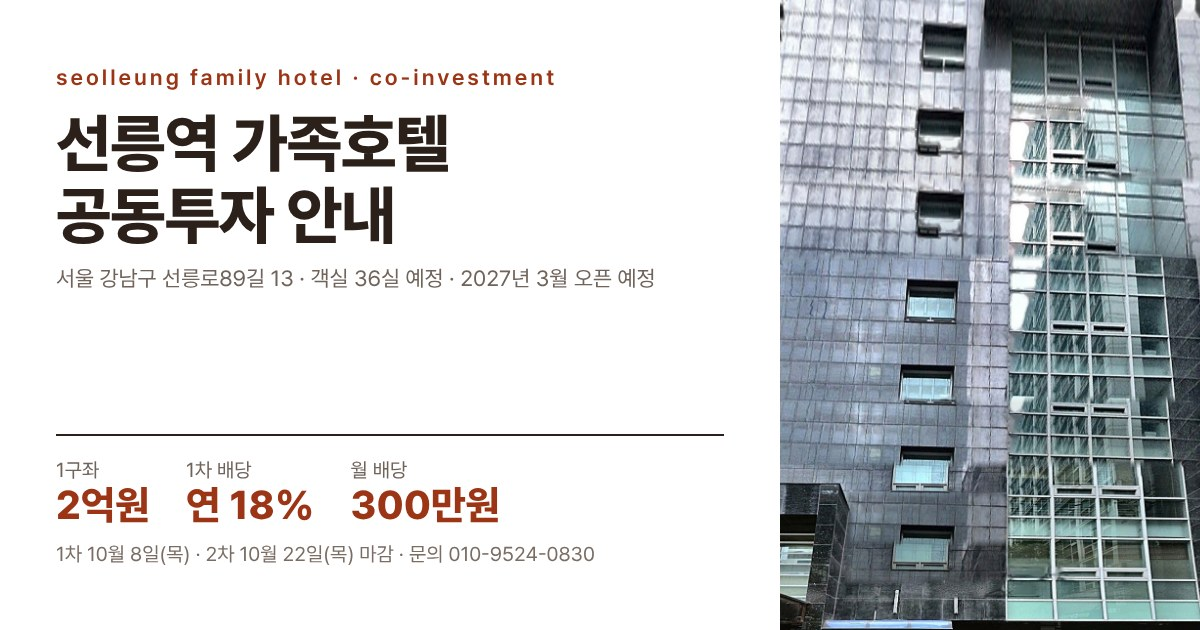
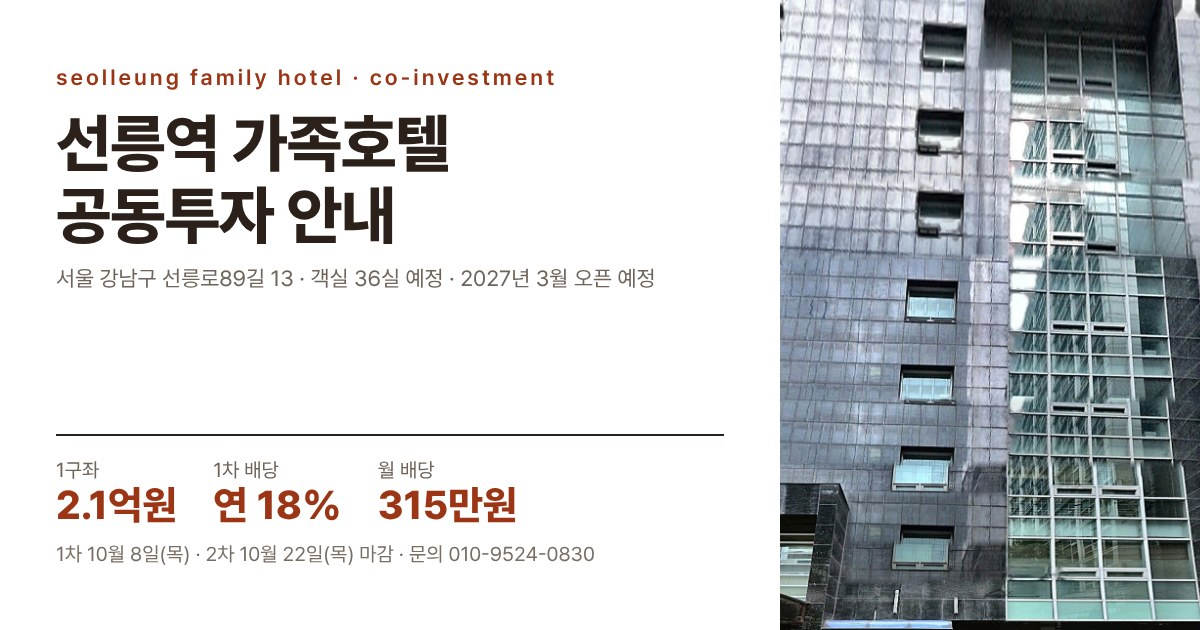
Add files via upload

Changed region(s): [[0.0617, 0.7238, 0.4317, 0.8444]]

diff --git a/index.html b/index.html
@@ -5,10 +5,10 @@
 <meta name="viewport" content="width=device-width,initial-scale=1,viewport-fit=cover">
 <meta name="robots" content="noindex, nofollow">
 <title>선릉역 가족호텔 공동투자</title>
-<meta name="description" content="서울 강남구 선릉역 가족호텔(역삼동 708-22) 공동투자 안내 — 1구좌 2억원 · 1차 연 18% 고정 배당 · 상담 신청">
+<meta name="description" content="서울 강남구 선릉역 가족호텔(역삼동 708-22) 공동투자 안내 — 1구좌 2.1억원 · 1차 연 18% 고정 배당 · 상담 신청">
 <meta property="og:type" content="website">
 <meta property="og:title" content="선릉역 가족호텔 공동투자 안내">
-<meta property="og:description" content="1구좌 2억원 · 1차 연 18% 고정 배당(월 300만원) · 1차 10월 8일, 2차 10월 22일 마감">
+<meta property="og:description" content="1구좌 2.1억원 · 1차 연 18% 고정 배당(월 315만원) · 1차 10월 8일, 2차 10월 22일 마감">
 <meta property="og:url" content="https://kimdoosoo.github.io/seolleung-hotel/">
 <meta property="og:image" content="https://kimdoosoo.github.io/seolleung-hotel/img/og.jpg">
 <meta property="og:image:width" content="1200">
@@ -326,12 +326,12 @@ footer p + p { margin-top: 6px; }
     <p class="addr">서울 강남구 선릉로89길 13 · 지상 2~8층 · 객실 36실 예정 · 2027년 3월 오픈 예정</p>
     <div class="deadlines"><p class="deadline">1차 모집 마감 <b>2026년 10월 8일(목)</b><span id="dday"></span></p><p class="deadline second">2차 모집 <b>10월 9일(금) ~ 10월 22일(목)</b></p></div>
     <div class="stats">
-      <div class="stat"><p class="k">1구좌</p><p class="v">2억원</p></div>
+      <div class="stat"><p class="k">1구좌</p><p class="v">2.1억원</p></div>
       <div class="stat"><p class="k">모집</p><p class="v">10구좌</p></div>
       <div class="stat"><p class="k">1차 배당</p><p class="v">연 18% 고정</p></div>
-      <div class="stat"><p class="k">1차 1구좌 월 배당</p><p class="v">300만원</p></div>
+      <div class="stat"><p class="k">1차 1구좌 월 배당</p><p class="v">315만원</p></div>
     </div>
-    <p class="subtle" style="margin-top:14px">2차 모집은 10월 22일(목) 마감 · 연 16% 고정(1구좌 월 약 267만원)</p>
+    <p class="subtle" style="margin-top:14px">2차 모집은 10월 22일(목) 마감 · 연 16% 고정(1구좌 월 280만원)</p>
     <div class="cta">
       <a class="btn" href="#apply">상담 신청하기</a>
       <a class="btn ghost" href="#first">1차와 2차 차이</a>
@@ -342,12 +342,12 @@ footer p + p { margin-top: 6px; }
     <div class="wrap">
       <div class="head"><p class="eyebrow">1차 모집 · 10월 8일(목) 마감</p><hr><h2>10월 8일이 지나면 고정 배당이 연 18%에서 16%로 내려갑니다</h2></div>
       <div class="duo">
-        <div class="card on"><p class="tag">1차 · 10월 8일(목) 마감</p><p class="rate">연 18%</p><p class="m">1구좌 매달 300만원</p>
-          <dl><dt>고정 배당 49개월</dt><dd>1억 4,700만원</dd><dt>1구좌 받는 돈 합계 (예상)</dt><dd>약 3억 9,700만원</dd></dl></div>
-        <div class="card"><p class="tag">2차 · 10월 22일(목) 마감</p><p class="rate">연 16%</p><p class="m">1구좌 매달 약 267만원</p>
-          <dl><dt>고정 배당 49개월</dt><dd>1억 3,067만원</dd><dt>1구좌 받는 돈 합계 (예상)</dt><dd>약 3억 8,070만원</dd></dl></div>
+        <div class="card on"><p class="tag">1차 · 10월 8일(목) 마감</p><p class="rate">연 18%</p><p class="m">1구좌 매달 315만원</p>
+          <dl><dt>고정 배당 49개월</dt><dd>1억 5,435만원</dd><dt>1구좌 받는 돈 합계 (예상)</dt><dd>약 4억 1,685만원</dd></dl></div>
+        <div class="card"><p class="tag">2차 · 10월 22일(목) 마감</p><p class="rate">연 16%</p><p class="m">1구좌 매달 280만원</p>
+          <dl><dt>고정 배당 49개월</dt><dd>1억 3,720만원</dd><dt>1구좌 받는 돈 합계 (예상)</dt><dd>약 3억 9,970만원</dd></dl></div>
       </div>
-      <p class="diff">같은 2억원, 1차가 1,633만원 더</p>
+      <p class="diff">같은 2.1억원, 1차가 1,715만원 더</p>
       <p class="subtle" style="margin-top:6px">10구좌 한정 · 1차에서 다 차면 2차 모집은 없습니다</p>
       <p class="note">배당 49개월 = 2027년 5월 ~ 2031년 5월 (예상 시나리오) · 합계 = 고정 배당 + 추가 배당(예상) + 엑시트 실수령 · 모든 수익은 예상치입니다</p>
     </div>
@@ -373,16 +373,16 @@ footer p + p { margin-top: 6px; }
 
   <section class="block" id="structure">
     <div class="wrap">
-      <div class="head"><p class="eyebrow">investment</p><hr><h2>총 20억원 — 1구좌 2억원 × 10구좌</h2></div>
+      <div class="head"><p class="eyebrow">investment</p><hr><h2>총 21억원 — 1구좌 2.1억원 × 10구좌</h2></div>
       <div class="sum">
         <div class="box"><p class="k">임차보증금</p><p class="v">3.5억원</p><p class="d">층당 5천만원 × 7개 층</p></div>
         <p class="op">+</p>
-        <div class="box"><p class="k">공사비</p><p class="v">16.5억원</p><p class="d">평당 약 440만원</p></div>
+        <div class="box"><p class="k">공사비</p><p class="v">17.5억원</p><p class="d">평당 약 470만원</p></div>
         <p class="op">=</p>
-        <div class="box total"><p class="k">총 사업비</p><p class="v">20억원</p><p class="d">2억원 × 10구좌</p></div>
+        <div class="box total"><p class="k">총 사업비</p><p class="v">21억원</p><p class="d">2.1억원 × 10구좌</p></div>
       </div>
       <dl class="kv">
-        <dt>배당</dt><dd>1차 연 18% (1구좌 월 300만원) · 2차 연 16% (월 약 267만원) — 매월 고정 지급</dd>
+        <dt>배당</dt><dd>1차 연 18% (1구좌 월 315만원) · 2차 연 16% (월 280만원) — 매월 고정 지급</dd>
         <dt>배당 시작</dt><dd>오픈 2개월차부터 (2027년 5월 예정)</dd>
         <dt>추가 배당</dt><dd>고정 배당을 넘는 전년도 수익, 매년 1분기 지급</dd>
         <dt>투자 방식</dt><dd>프로젝트 법인(SPC) 먼슬리브 역삼 호텔스테이 주주로 참여</dd>
@@ -457,7 +457,7 @@ footer p + p { margin-top: 6px; }
 
   <section class="block" id="track">
     <div class="wrap">
-      <div class="head"><p class="eyebrow">monthliv track record</p><hr><h2>4개 지점 실적으로 본 역삼동 예상 매출, 월 1.65억원</h2></div>
+      <div class="head"><p class="eyebrow">monthliv track record</p><hr><h2>4개 지점 실적으로 본 역삼동 예상 매출, 월 1.75억원</h2></div>
       <div class="tbl">
         <table>
           <tr><th>지점</th><th class="acc">80% 가동 시 매출</th><th>면적</th><th>10월 매출</th><th>객단가</th><th>객실당 매출</th><th>점유율</th></tr>
@@ -515,72 +515,72 @@ footer p + p { margin-top: 6px; }
     <div class="wrap">
       <div class="head"><p class="eyebrow">profit · 연간 예상</p><hr><h2>투자금 대비 연 30% — 18%는 매달, 나머지는 1분기에</h2></div>
       <h3>연 매출 19억 7,426만원은 이렇게 나뉩니다</h3>
-      <div class="split" role="img" aria-label="연 매출 배분: 운영 수수료 15% 2억 9,614만원, 운영비 5억 9,932만원, 임대료 4억 7,880만원, 고정 배당 3억 6,000만원, 추가 배당 2억 4,000만원">
-        <span style="flex:29614;background:var(--c2)"></span><span style="flex:59932;background:var(--c3)"></span><span style="flex:47880;background:var(--c4)"></span><span style="flex:36000;background:var(--accent)"></span><span style="flex:24000;background:var(--accent-2)"></span>
+      <div class="split" role="img" aria-label="연 매출 배분: 운영 수수료 15% 2억 9,614만원, 운영비 5억 6,932만원, 임대료 4억 7,880만원, 고정 배당 3억 7,800만원, 추가 배당 2억 5,200만원">
+        <span style="flex:29614;background:var(--c2)"></span><span style="flex:56932;background:var(--c3)"></span><span style="flex:47880;background:var(--c4)"></span><span style="flex:37800;background:var(--accent)"></span><span style="flex:25200;background:var(--accent-2)"></span>
       </div>
       <div class="legend five">
         <div><i style="background:var(--c2)"></i><p>운영 수수료 15%</p><b>2억 9,614만</b></div>
-        <div><i style="background:var(--c3)"></i><p>운영비</p><b>5억 9,932만</b></div>
+        <div><i style="background:var(--c3)"></i><p>운영비</p><b>5억 6,932만</b></div>
         <div><i style="background:var(--c4)"></i><p>임대료</p><b>4억 7,880만</b></div>
-        <div><i style="background:var(--accent)"></i><p class="acc">고정 배당</p><b class="acc">3억 6,000만</b></div>
-        <div><i style="background:var(--accent-2)"></i><p class="acc">추가 배당</p><b class="acc">2억 4,000만</b></div>
+        <div><i style="background:var(--accent)"></i><p class="acc">고정 배당</p><b class="acc">3억 7,800만</b></div>
+        <div><i style="background:var(--accent-2)"></i><p class="acc">추가 배당</p><b class="acc">2억 5,200만</b></div>
       </div>
       <div class="sum" style="margin-top:32px">
-        <div class="box"><p class="k">1구좌 고정 배당 (1차)</p><p class="v">연 3,600만원</p><p class="d">매달 300만원 · 18% (2차 16%)</p></div>
+        <div class="box"><p class="k">1구좌 고정 배당 (1차)</p><p class="v">연 3,780만원</p><p class="d">매달 315만원 · 18% (2차 16%)</p></div>
         <p class="op">+</p>
-        <div class="box"><p class="k">1구좌 추가 배당</p><p class="v">약 2,400만원</p><p class="d">다음 해 1분기</p></div>
+        <div class="box"><p class="k">1구좌 추가 배당</p><p class="v">약 2,520만원</p><p class="d">다음 해 1분기</p></div>
         <p class="op">=</p>
-        <div class="box total"><p class="k">1차 1구좌 연간 배당 (예상)</p><p class="v">약 6,000만원</p><p class="d">투자금 2억원 대비 30%</p></div>
+        <div class="box total"><p class="k">1차 1구좌 연간 배당 (예상)</p><p class="v">약 6,300만원</p><p class="d">투자금 2.1억원 대비 30%</p></div>
       </div>
-      <p class="note">매출: 4개 지점 평당 정산 매출(OTA 수수료 차감 후) · 가동률 연중 80% 가정(성수기 90%보다 낮춤) · 운영 수수료 15% · 임대료 관리비 포함 · 운영비(공과금 · 린넨/비품 렌탈 · 소모품 · 청소 용역) 월 약 5,000만원, 매출의 약 30% 가정 · 추가 배당은 전 구좌 1차 기준 · 법인세 반영 전 · 모든 수익은 예상치이며 추가 배당은 전년도 결산으로 확정</p>
+      <p class="note">매출: 4개 지점 평당 정산 매출(OTA 수수료 차감 후) · 가동률 연중 80% 가정(성수기 90%보다 낮춤) · 운영 수수료 15% · 임대료 관리비 포함 · 운영비(공과금 · 린넨/비품 렌탈 · 소모품 · 청소 용역) 월 약 4,740만원, 매출의 약 29% 가정 · 추가 배당은 전 구좌 1차 기준 · 법인세 반영 전 · 모든 수익은 예상치이며 추가 배당은 전년도 결산으로 확정</p>
     </div>
   </section>
 
   <section class="block" id="returns">
     <div class="wrap">
-      <div class="head"><p class="eyebrow">returns · 1구좌 2억원 기준 · 예상</p><hr><h2>언제, 얼마를 받나요 — 1차와 2차</h2></div>
+      <div class="head"><p class="eyebrow">returns · 1구좌 2.1억원 기준 · 예상</p><hr><h2>언제, 얼마를 받나요 — 1차와 2차</h2></div>
       <div class="tabs" role="tablist" aria-label="모집 차수">
         <button class="tab" type="button" role="tab" id="tab-r1" aria-selected="true" aria-controls="plan-r1">1차 · 10월 8일(목) 마감 · 연 18%</button>
         <button class="tab" type="button" role="tab" id="tab-r2" aria-selected="false" aria-controls="plan-r2">2차 · 10월 22일(목) 마감 · 연 16%</button>
       </div>
       <div class="plan" id="plan-r1" role="tabpanel" aria-labelledby="tab-r1">
-        <h3 class="plan-title">1차 — 매달 300만원, 1분기 추가 배당, 그리고 엑시트</h3>
+        <h3 class="plan-title">1차 — 매달 315만원, 1분기 추가 배당, 그리고 엑시트</h3>
         <div class="cal-scroll">
-          <div class="cal" role="img" aria-label="1차 배당 달력: 2027년 5월부터 2031년 5월까지 매달 300만원, 2029~2031년 1분기 추가 배당 약 2,400만원, 2031년 5월 엑시트(예상)">
+          <div class="cal" role="img" aria-label="1차 배당 달력: 2027년 5월부터 2031년 5월까지 매달 315만원, 2029~2031년 1분기 추가 배당 약 2,520만원, 2031년 5월 엑시트(예상)">
 <span class="yl h">연도</span><span class="m">1월</span><span class="m">2월</span><span class="m">3월</span><span class="m">4월</span><span class="m">5월</span><span class="m">6월</span><span class="m">7월</span><span class="m">8월</span><span class="m">9월</span><span class="m">10월</span><span class="m">11월</span><span class="m">12월</span><span class="m">1분기 추가</span><span class="tot h">연간</span>
-<span class="yl">2027</span><span class="c prep">오픈 준비</span><span class="c open" style="grid-column:span 2">3월 오픈</span><span class="c pay">300만</span><span class="c pay">300만</span><span class="c pay">300만</span><span class="c pay">300만</span><span class="c pay">300만</span><span class="c pay">300만</span><span class="c pay">300만</span><span class="c pay">300만</span><span class="ex none">—</span><span class="tot">2,400만원</span>
-<span class="yl">2028</span><span class="c pay">300만</span><span class="c pay">300만</span><span class="c pay">300만</span><span class="c pay">300만</span><span class="c pay">300만</span><span class="c pay">300만</span><span class="c pay">300만</span><span class="c pay">300만</span><span class="c pay">300만</span><span class="c pay">300만</span><span class="c pay">300만</span><span class="c pay">300만</span><span class="ex">+α</span><span class="tot">3,600만원 <em>+α</em></span>
-<span class="yl">2029</span><span class="c pay">300만</span><span class="c pay">300만</span><span class="c pay">300만</span><span class="c pay">300만</span><span class="c pay">300만</span><span class="c pay">300만</span><span class="c pay">300만</span><span class="c pay">300만</span><span class="c pay">300만</span><span class="c pay">300만</span><span class="c pay">300만</span><span class="c pay">300만</span><span class="ex">+2,400만</span><span class="tot">6,000만원</span>
-<span class="yl">2030</span><span class="c pay">300만</span><span class="c pay">300만</span><span class="c pay">300만</span><span class="c pay">300만</span><span class="c pay">300만</span><span class="c pay">300만</span><span class="c pay">300만</span><span class="c pay">300만</span><span class="c pay">300만</span><span class="c pay">300만</span><span class="c pay">300만</span><span class="c pay">300만</span><span class="ex">+2,400만</span><span class="tot">6,000만원</span>
-<span class="yl">2031</span><span class="c pay">300만</span><span class="c pay">300만</span><span class="c pay">300만</span><span class="c pay">300만</span><span class="c pay">300만</span><span class="c exit">5월 엑시트(예상) → 1구좌 2억원 · 세금 11% 빼고 1억 7,800만원</span><span class="ex">+2,400만</span><span class="tot">3,900만원</span>
+<span class="yl">2027</span><span class="c prep">오픈 준비</span><span class="c open" style="grid-column:span 2">3월 오픈</span><span class="c pay">315만</span><span class="c pay">315만</span><span class="c pay">315만</span><span class="c pay">315만</span><span class="c pay">315만</span><span class="c pay">315만</span><span class="c pay">315만</span><span class="c pay">315만</span><span class="ex none">—</span><span class="tot">2,520만원</span>
+<span class="yl">2028</span><span class="c pay">315만</span><span class="c pay">315만</span><span class="c pay">315만</span><span class="c pay">315만</span><span class="c pay">315만</span><span class="c pay">315만</span><span class="c pay">315만</span><span class="c pay">315만</span><span class="c pay">315만</span><span class="c pay">315만</span><span class="c pay">315만</span><span class="c pay">315만</span><span class="ex">+α</span><span class="tot">3,780만원 <em>+α</em></span>
+<span class="yl">2029</span><span class="c pay">315만</span><span class="c pay">315만</span><span class="c pay">315만</span><span class="c pay">315만</span><span class="c pay">315만</span><span class="c pay">315만</span><span class="c pay">315만</span><span class="c pay">315만</span><span class="c pay">315만</span><span class="c pay">315만</span><span class="c pay">315만</span><span class="c pay">315만</span><span class="ex">+2,520만</span><span class="tot">6,300만원</span>
+<span class="yl">2030</span><span class="c pay">315만</span><span class="c pay">315만</span><span class="c pay">315만</span><span class="c pay">315만</span><span class="c pay">315만</span><span class="c pay">315만</span><span class="c pay">315만</span><span class="c pay">315만</span><span class="c pay">315만</span><span class="c pay">315만</span><span class="c pay">315만</span><span class="c pay">315만</span><span class="ex">+2,520만</span><span class="tot">6,300만원</span>
+<span class="yl">2031</span><span class="c pay">315만</span><span class="c pay">315만</span><span class="c pay">315만</span><span class="c pay">315만</span><span class="c pay">315만</span><span class="c exit">5월 엑시트(예상) → 1구좌 2.1억원 · 세금 11% 빼고 1억 8,690만원</span><span class="ex">+2,520만</span><span class="tot">4,095만원</span>
           </div>
         </div>
         <p class="hint">달력은 옆으로 밀어 볼 수 있습니다</p>
         <div class="trio quad">
-        <div><p class="k">고정 배당</p><p class="big">1억 4,700만원</p><p class="d">49개월 × 300만원 · 세금 0원</p></div>
-        <div><p class="k">추가 배당 (예상)</p><p class="big">약 7,200만원</p><p class="d">2029~2031년 1분기 · 세금 0원</p></div>
-        <div><p class="k">엑시트 실수령</p><p class="big">1억 7,800만원</p><p class="d">2031년 5월(예상) · 2억에서 11% 차감</p></div>
-        <div><p class="k acc">1구좌 합계 (예상)</p><p class="big">약 3억 9,700만원</p><p class="d">원금 2억원의 약 2배</p></div>
+        <div><p class="k">고정 배당</p><p class="big">1억 5,435만원</p><p class="d">49개월 × 315만원 · 세금 0원</p></div>
+        <div><p class="k">추가 배당 (예상)</p><p class="big">약 7,560만원</p><p class="d">2029~2031년 1분기 · 세금 0원</p></div>
+        <div><p class="k">엑시트 실수령</p><p class="big">1억 8,690만원</p><p class="d">2031년 5월(예상) · 2.1억에서 11% 차감</p></div>
+        <div><p class="k acc">1구좌 합계 (예상)</p><p class="big">약 4억 1,685만원</p><p class="d">원금 2.1억원의 약 2배</p></div>
       </div>
       </div>
       <div class="plan" id="plan-r2" role="tabpanel" aria-labelledby="tab-r2">
-        <h3 class="plan-title">2차 — 매달 약 267만원, 1분기 추가 배당, 그리고 엑시트</h3>
+        <h3 class="plan-title">2차 — 매달 280만원, 1분기 추가 배당, 그리고 엑시트</h3>
         <div class="cal-scroll">
-          <div class="cal" role="img" aria-label="2차 배당 달력: 2027년 5월부터 2031년 5월까지 매달 약 267만원, 2029~2031년 1분기 추가 배당 약 2,400만원, 2031년 5월 엑시트(예상)">
+          <div class="cal" role="img" aria-label="2차 배당 달력: 2027년 5월부터 2031년 5월까지 매달 280만원, 2029~2031년 1분기 추가 배당 약 2,520만원, 2031년 5월 엑시트(예상)">
 <span class="yl h">연도</span><span class="m">1월</span><span class="m">2월</span><span class="m">3월</span><span class="m">4월</span><span class="m">5월</span><span class="m">6월</span><span class="m">7월</span><span class="m">8월</span><span class="m">9월</span><span class="m">10월</span><span class="m">11월</span><span class="m">12월</span><span class="m">1분기 추가</span><span class="tot h">연간</span>
-<span class="yl">2027</span><span class="c prep">오픈 준비</span><span class="c open" style="grid-column:span 2">3월 오픈</span><span class="c pay">267만</span><span class="c pay">267만</span><span class="c pay">267만</span><span class="c pay">267만</span><span class="c pay">267만</span><span class="c pay">267만</span><span class="c pay">267만</span><span class="c pay">267만</span><span class="ex none">—</span><span class="tot">2,133만원</span>
-<span class="yl">2028</span><span class="c pay">267만</span><span class="c pay">267만</span><span class="c pay">267만</span><span class="c pay">267만</span><span class="c pay">267만</span><span class="c pay">267만</span><span class="c pay">267만</span><span class="c pay">267만</span><span class="c pay">267만</span><span class="c pay">267만</span><span class="c pay">267만</span><span class="c pay">267만</span><span class="ex">+α</span><span class="tot">3,200만원 <em>+α</em></span>
-<span class="yl">2029</span><span class="c pay">267만</span><span class="c pay">267만</span><span class="c pay">267만</span><span class="c pay">267만</span><span class="c pay">267만</span><span class="c pay">267만</span><span class="c pay">267만</span><span class="c pay">267만</span><span class="c pay">267만</span><span class="c pay">267만</span><span class="c pay">267만</span><span class="c pay">267만</span><span class="ex">+2,400만</span><span class="tot">5,600만원</span>
-<span class="yl">2030</span><span class="c pay">267만</span><span class="c pay">267만</span><span class="c pay">267만</span><span class="c pay">267만</span><span class="c pay">267만</span><span class="c pay">267만</span><span class="c pay">267만</span><span class="c pay">267만</span><span class="c pay">267만</span><span class="c pay">267만</span><span class="c pay">267만</span><span class="c pay">267만</span><span class="ex">+2,400만</span><span class="tot">5,600만원</span>
-<span class="yl">2031</span><span class="c pay">267만</span><span class="c pay">267만</span><span class="c pay">267만</span><span class="c pay">267만</span><span class="c pay">267만</span><span class="c exit">5월 엑시트(예상) → 1구좌 2억원 · 세금 11% 빼고 1억 7,800만원</span><span class="ex">+2,400만</span><span class="tot">3,733만원</span>
+<span class="yl">2027</span><span class="c prep">오픈 준비</span><span class="c open" style="grid-column:span 2">3월 오픈</span><span class="c pay">280만</span><span class="c pay">280만</span><span class="c pay">280만</span><span class="c pay">280만</span><span class="c pay">280만</span><span class="c pay">280만</span><span class="c pay">280만</span><span class="c pay">280만</span><span class="ex none">—</span><span class="tot">2,240만원</span>
+<span class="yl">2028</span><span class="c pay">280만</span><span class="c pay">280만</span><span class="c pay">280만</span><span class="c pay">280만</span><span class="c pay">280만</span><span class="c pay">280만</span><span class="c pay">280만</span><span class="c pay">280만</span><span class="c pay">280만</span><span class="c pay">280만</span><span class="c pay">280만</span><span class="c pay">280만</span><span class="ex">+α</span><span class="tot">3,360만원 <em>+α</em></span>
+<span class="yl">2029</span><span class="c pay">280만</span><span class="c pay">280만</span><span class="c pay">280만</span><span class="c pay">280만</span><span class="c pay">280만</span><span class="c pay">280만</span><span class="c pay">280만</span><span class="c pay">280만</span><span class="c pay">280만</span><span class="c pay">280만</span><span class="c pay">280만</span><span class="c pay">280만</span><span class="ex">+2,520만</span><span class="tot">5,880만원</span>
+<span class="yl">2030</span><span class="c pay">280만</span><span class="c pay">280만</span><span class="c pay">280만</span><span class="c pay">280만</span><span class="c pay">280만</span><span class="c pay">280만</span><span class="c pay">280만</span><span class="c pay">280만</span><span class="c pay">280만</span><span class="c pay">280만</span><span class="c pay">280만</span><span class="c pay">280만</span><span class="ex">+2,520만</span><span class="tot">5,880만원</span>
+<span class="yl">2031</span><span class="c pay">280만</span><span class="c pay">280만</span><span class="c pay">280만</span><span class="c pay">280만</span><span class="c pay">280만</span><span class="c exit">5월 엑시트(예상) → 1구좌 2.1억원 · 세금 11% 빼고 1억 8,690만원</span><span class="ex">+2,520만</span><span class="tot">3,920만원</span>
           </div>
         </div>
         <p class="hint">달력은 옆으로 밀어 볼 수 있습니다</p>
         <div class="trio quad">
-        <div><p class="k">고정 배당</p><p class="big">1억 3,067만원</p><p class="d">49개월 × 266만 6,667원 · 세금 0원</p></div>
-        <div><p class="k">추가 배당 (예상)</p><p class="big">약 7,200만원</p><p class="d">2029~2031년 1분기 · 세금 0원</p></div>
-        <div><p class="k">엑시트 실수령</p><p class="big">1억 7,800만원</p><p class="d">2031년 5월(예상) · 2억에서 11% 차감</p></div>
-        <div><p class="k acc">1구좌 합계 (예상)</p><p class="big">약 3억 8,070만원</p><p class="d">원금 2억원의 약 1.9배</p></div>
+        <div><p class="k">고정 배당</p><p class="big">1억 3,720만원</p><p class="d">49개월 × 280만원 · 세금 0원</p></div>
+        <div><p class="k">추가 배당 (예상)</p><p class="big">약 7,560만원</p><p class="d">2029~2031년 1분기 · 세금 0원</p></div>
+        <div><p class="k">엑시트 실수령</p><p class="big">1억 8,690만원</p><p class="d">2031년 5월(예상) · 2.1억에서 11% 차감</p></div>
+        <div><p class="k acc">1구좌 합계 (예상)</p><p class="big">약 3억 9,970만원</p><p class="d">원금 2.1억원의 약 1.9배</p></div>
       </div>
       </div>
     </div>
@@ -588,43 +588,43 @@ footer p + p { margin-top: 6px; }
 
   <section class="block" id="exit">
     <div class="wrap">
-      <div class="head"><p class="eyebrow">exit · 2031년 5월 예상 시나리오 · 1구좌 2억원 기준</p><hr><h2>엑시트 20억원 — 1구좌 실수령 1억 7,800만원</h2></div>
+      <div class="head"><p class="eyebrow">exit · 2031년 5월 예상 시나리오 · 1구좌 2.1억원 기준</p><hr><h2>엑시트 21억원 — 1구좌 실수령 1억 8,690만원</h2></div>
       <div class="flow">
-        <div class="box"><p class="k">엑시트 금액</p><p class="v">20억원</p><p class="d">보증금 3.5억 + 권리금 16.5억</p></div>
+        <div class="box"><p class="k">엑시트 금액</p><p class="v">21억원</p><p class="d">보증금 3.5억 + 권리금 17.5억</p></div>
         <p class="op">÷10</p>
-        <div class="box"><p class="k">1구좌 몫</p><p class="v">2억원</p><p class="d">0.35억 + 1.65억</p></div>
+        <div class="box"><p class="k">1구좌 몫</p><p class="v">2.1억원</p><p class="d">0.35억 + 1.75억</p></div>
         <p class="op">−</p>
-        <div class="box"><p class="k">양도세 11%</p><p class="v">2,200만원</p><p class="d">2억원 × 11% (보수적 계산)</p></div>
+        <div class="box"><p class="k">양도세 11%</p><p class="v">2,310만원</p><p class="d">2.1억원 × 11% (보수적 계산)</p></div>
         <p class="op">=</p>
-        <div class="box total"><p class="k">실수령</p><p class="v">1억 7,800만원</p><p class="d">2031년 5월</p></div>
+        <div class="box total"><p class="k">실수령</p><p class="v">1억 8,690만원</p><p class="d">2031년 5월</p></div>
       </div>
-      <p class="subtle" style="margin-top:16px">소액주주는 감액배당에 세금이 없어 배당은 원금을 넘어도 비과세입니다. 엑시트 양도세는 차익의 11%로, 여기서는 2억 전체에 적용해 보수적으로 계산했습니다.</p>
+      <p class="subtle" style="margin-top:16px">소액주주는 감액배당에 세금이 없어 배당은 원금을 넘어도 비과세입니다. 엑시트 양도세는 차익의 11%로, 여기서는 2.1억 전체에 적용해 보수적으로 계산했습니다.</p>
       <h3 style="margin-top:40px">1차 1구좌로 받는 돈 합계 (예상)</h3>
       <div class="total-row">
-        <div class="stack" role="img" aria-label="1구좌 합계 약 3억 9,700만원: 고정 배당 1억 4,700만원, 추가 배당 약 7,200만원, 엑시트 실수령 1억 7,800만원. 원금 2억원은 배당만으로 넘습니다.">
-          <span style="flex:14700;background:var(--accent)"></span><span style="flex:7200;background:var(--accent-2)"></span><span style="flex:17800;background:var(--ink)"></span>
+        <div class="stack" role="img" aria-label="1구좌 합계 약 4억 1,685만원: 고정 배당 1억 5,435만원, 추가 배당 약 7,560만원, 엑시트 실수령 1억 8,690만원. 원금 2.1억원은 배당만으로 넘습니다.">
+          <span style="flex:15435;background:var(--accent)"></span><span style="flex:7560;background:var(--accent-2)"></span><span style="flex:18690;background:var(--ink)"></span>
           <em class="line" style="left:50.38%"></em>
         </div>
-        <div class="tot-label"><p class="big">약 3억 9,700만원</p><p class="subtle">원금 2억원의 약 2배</p></div>
+        <div class="tot-label"><p class="big">약 4억 1,685만원</p><p class="subtle">원금 2.1억원의 약 2배</p></div>
       </div>
       <div class="legend three">
-        <div><i style="background:var(--accent)"></i><p>고정 배당</p><b>1억 4,700만</b></div>
-        <div><i style="background:var(--accent-2)"></i><p>추가 배당 (예상)</p><b>약 7,200만</b></div>
-        <div><i style="background:var(--ink)"></i><p>엑시트 실수령</p><b>1억 7,800만</b></div>
+        <div><i style="background:var(--accent)"></i><p>고정 배당</p><b>1억 5,435만</b></div>
+        <div><i style="background:var(--accent-2)"></i><p>추가 배당 (예상)</p><b>약 7,560만</b></div>
+        <div><i style="background:var(--ink)"></i><p>엑시트 실수령</p><b>1억 8,690만</b></div>
       </div>
-      <p class="small-note" style="margin-top:10px">흰 점선 = 원금 2억원 · 배당만으로 원금을 넘습니다</p>
-      <p class="note">추가 배당: 2028~2030년분 예상치(1구좌 연 약 2,400만원) 3회 · 2027년분 +α 별도 · 엑시트는 예상 시나리오, 시설권리금은 시장 상황에 따라 달라질 수 있습니다 · 감액배당: 2026년 개정 세법에서도 중소 · 중견기업 비상장 소액주주는 비과세 · 11%: 중소기업 소액주주 양도소득세 10% + 지방소득세 1%</p>
+      <p class="small-note" style="margin-top:10px">흰 점선 = 원금 2.1억원 · 배당만으로 원금을 넘습니다</p>
+      <p class="note">추가 배당: 2028~2030년분 예상치(1구좌 연 약 2,520만원) 3회 · 2027년분 +α 별도 · 엑시트는 예상 시나리오, 시설권리금은 시장 상황에 따라 달라질 수 있습니다 · 감액배당: 2026년 개정 세법에서도 중소 · 중견기업 비상장 소액주주는 비과세 · 11%: 중소기업 소액주주 양도소득세 10% + 지방소득세 1%</p>
     </div>
   </section>
 
   <section class="block" id="tax">
     <div class="wrap">
       <div class="head"><p class="eyebrow">tax · 배당과 엑시트</p><hr><h2>배당은 세금 0원 — 엑시트 때만 11%</h2></div>
-      <h3>1차 1구좌 배당 2억 1,900만원(고정 + 추가, 예상)에 붙는 세금</h3>
+      <h3>1차 1구좌 배당 2억 2,995만원(고정 + 추가, 예상)에 붙는 세금</h3>
       <div class="vs">
         <div><p class="lab acc">이 투자 — 감액배당 · 소액주주</p><div class="row"><span class="tick"></span><span class="amt0">0원</span></div></div>
-        <div><p class="lab subtle">이익배당이라면 (15.4% 원천징수부터)</p><div class="row"><span class="barv" style="width:min(18%, 170px)"></span><span class="amt1">3,373만원~</span></div></div>
-        <div><p class="lab subtle">직접 창업해 운영하면 (종합소득세 최고 49.5%)</p><div class="row"><span class="barv" style="width:min(56%, 540px)"></span><span class="amt1">1억 840만원</span></div></div>
+        <div><p class="lab subtle">이익배당이라면 (15.4% 원천징수부터)</p><div class="row"><span class="barv" style="width:min(18%, 170px)"></span><span class="amt1">3,541만원~</span></div></div>
+        <div><p class="lab subtle">직접 창업해 운영하면 (종합소득세 최고 49.5%)</p><div class="row"><span class="barv" style="width:min(56%, 540px)"></span><span class="amt1">1억 1,383만원</span></div></div>
       </div>
       <p style="margin-top:22px;border-top:1px solid var(--line);padding-top:16px">엑시트 때는 양도차익의 <b class="acc">11%</b>만 냅니다 (중소기업 소액주주 양도소득세 10% + 지방소득세 1%)</p>
       <p class="note">감액배당: 중소 · 중견기업 비상장 소액주주는 2026년 개정 세법에서도 비과세 · 이익배당은 금융소득 연 2,000만원 초과 시 종합과세 · 직접 운영은 최고세율 49.5%(지방세 포함) 단순 적용</p>
@@ -633,21 +633,21 @@ footer p + p { margin-top: 6px; }
 
   <section class="block" id="bonus">
     <div class="wrap">
-      <div class="head"><p class="eyebrow">추가 보너스 · 소득공제</p><hr><h2>소득공제로 세금이 최대 약 4,410만원 줄어듭니다</h2></div>
+      <div class="head"><p class="eyebrow">추가 보너스 · 소득공제</p><hr><h2>소득공제로 세금이 최대 약 4,550만원 줄어듭니다</h2></div>
       <div class="bonus">
         <div class="facts">
-          <div><p class="k">1구좌 소득공제</p><p class="v">8,900만원</p><p class="d">3천만원까지 100% · 3천~5천만원 70% · 5천만원 초과 30%</p></div>
+          <div><p class="k">1구좌 소득공제</p><p class="v">9,200만원</p><p class="d">3천만원까지 100% · 3천~5천만원 70% · 5천만원 초과 30%</p></div>
           <div><p class="k">언제 받나</p><p class="v2">투자한 해 · 2년차 · 3년차 중 한 해</p><p class="d">소득이 가장 큰 해를 고르면 더 많이 줄어듭니다</p></div>
           <div><p class="k">무엇이 좋은가</p><p class="v2 acc">배당 · 엑시트와 별도로 받는 보너스</p></div>
         </div>
         <div class="saves" role="table" aria-label="연 소득별 1구좌 소득공제로 줄어드는 세금">
           <div class="hd"><span>연 소득 (세율)</span><span>줄어드는 세금 (1구좌)</span></div>
           <div class="row"><p class="lab">6,000만원 <span>24%</span></p><div class="bar-wrap"><span class="bar" style="width:13%"></span></div><p class="val">약 590만원</p></div>
-          <div class="row"><p class="lab">1억원 <span>35%</span></p><div class="bar-wrap"><span class="bar" style="width:33%"></span></div><p class="val">약 1,470만원</p></div>
-          <div class="row"><p class="lab">1.5억원 <span>35%</span></p><div class="bar-wrap"><span class="bar" style="width:62%"></span></div><p class="val">약 2,730만원</p></div>
-          <div class="row"><p class="lab">2억원 <span>38%</span></p><div class="bar-wrap"><span class="bar" style="width:82%"></span></div><p class="val">약 3,590만원</p></div>
-          <div class="row"><p class="lab">3억원 <span>38%</span></p><div class="bar-wrap"><span class="bar" style="width:84%"></span></div><p class="val">약 3,720만원</p></div>
-          <div class="row"><p class="lab">10억원 초과 <span>45%</span></p><div class="bar-wrap"><span class="bar" style="width:100%"></span></div><p class="val">약 4,410만원</p></div>
+          <div class="row"><p class="lab">1억원 <span>35%</span></p><div class="bar-wrap"><span class="bar" style="width:32%"></span></div><p class="val">약 1,470만원</p></div>
+          <div class="row"><p class="lab">1.5억원 <span>35%</span></p><div class="bar-wrap"><span class="bar" style="width:60%"></span></div><p class="val">약 2,730만원</p></div>
+          <div class="row"><p class="lab">2억원 <span>38%</span></p><div class="bar-wrap"><span class="bar" style="width:81%"></span></div><p class="val">약 3,710만원</p></div>
+          <div class="row"><p class="lab">3억원 <span>38%</span></p><div class="bar-wrap"><span class="bar" style="width:84%"></span></div><p class="val">약 3,850만원</p></div>
+          <div class="row"><p class="lab">10억원 초과 <span>45%</span></p><div class="bar-wrap"><span class="bar" style="width:100%"></span></div><p class="val">약 4,550만원</p></div>
         </div>
       </div>
       <p class="note">소득공제: 조세특례제한법 제16조(벤처기업 투자, 2028년 말 투자분까지) · 그해 종합소득금액의 50% 한도 · 3년 이상 보유 · 연 소득 = 종합소득금액(다른 공제 없다고 가정) · 줄어드는 세금은 지방소득세 포함 추정치</p>
@@ -660,11 +660,11 @@ footer p + p { margin-top: 6px; }
       <div class="tbl">
         <table class="cmp">
           <tr><th></th><th>주식</th><th class="us">이 투자</th></tr>
-          <tr><td>돈이 들어오는 방식</td><td>주로 시세차익 · 배당은 연 1~4회</td><td class="us">매달 300만원 + 매년 1분기 추가 배당</td></tr>
+          <tr><td>돈이 들어오는 방식</td><td>주로 시세차익 · 배당은 연 1~4회</td><td class="us">매달 315만원 + 매년 1분기 추가 배당</td></tr>
           <tr><td>가격</td><td>매일 시세가 오르내림</td><td class="us">시세 없음</td></tr>
           <tr><td>현황 확인</td><td>분기 · 반기 공시</td><td class="us">OTA 결제 · 판매 현황 실시간 · 매년 초 실적 보고</td></tr>
           <tr><td>배당 세금</td><td>15.4% · 연 2,000만원 넘으면 종합과세</td><td class="us">0원 (감액배당 · 소액주주)</td></tr>
-          <tr><td>소득공제</td><td>없음</td><td class="us">세금 최대 약 4,410만원 감소 (8,900만원 공제)</td></tr>
+          <tr><td>소득공제</td><td>없음</td><td class="us">세금 최대 약 4,550만원 감소 (9,200만원 공제)</td></tr>
           <tr><td>무엇에 투자하나</td><td>회사 전체의 실적</td><td class="us">선릉역 가족호텔 한 곳 · 보증금 3.5억 포함</td></tr>
           <tr><td>팔 때</td><td>시장에서 바로</td><td class="us">지분 양도(3자 간 거래) · 2031년 5월 엑시트(예상 시나리오)</td></tr>
         </table>
@@ -677,25 +677,25 @@ footer p + p { margin-top: 6px; }
     <div class="wrap">
       <div class="head"><p class="eyebrow">q&amp;a</p><hr><h2>자주 묻는 질문</h2></div>
 <h3 class="qa-group">모집과 배당</h3>
-<details class="qa"><summary>1구좌는 얼마인가요?</summary><p>1구좌 2억원, 총 10구좌(20억원)입니다.</p></details>
+<details class="qa"><summary>1구좌는 얼마인가요?</summary><p>1구좌 2.1억원, 총 10구좌(21억원)입니다.</p></details>
 <details class="qa"><summary>모집은 언제까지인가요?</summary><p>1차는 10월 8일(목), 2차는 10월 22일(목) 마감입니다. 10구좌 한정이라 1차에서 모두 차면 2차 모집은 하지 않습니다.</p></details>
-<details class="qa"><summary>1차와 2차는 무엇이 다른가요?</summary><p>고정 배당만 다릅니다. 1차는 연 18%(1구좌 월 300만원), 2차는 연 16%(월 약 267만원)입니다. 배당 기간 49개월(예상 시나리오) 동안 1구좌 기준 약 1,633만원 차이가 납니다.</p></details>
+<details class="qa"><summary>1차와 2차는 무엇이 다른가요?</summary><p>고정 배당만 다릅니다. 1차는 연 18%(1구좌 월 315만원), 2차는 연 16%(월 280만원)입니다. 배당 기간 49개월(예상 시나리오) 동안 1구좌 기준 약 1,715만원 차이가 납니다.</p></details>
 <details class="qa"><summary>배당은 언제부터 받나요?</summary><p>2027년 3월 오픈, 2개월차인 5월부터 매월 같은 금액을 받을 예정입니다.</p></details>
-<details class="qa"><summary>고정 배당보다 더 벌면요?</summary><p>고정 배당을 넘는 전년도 수익은 다음 해 1분기에 추가 배당합니다. 예상 기준 1구좌 연 약 2,400만원으로, 1차는 고정 배당과 합쳐 연 약 6,000만원(투자금 대비 약 30% 수익률)입니다.</p></details>
+<details class="qa"><summary>고정 배당보다 더 벌면요?</summary><p>고정 배당을 넘는 전년도 수익은 다음 해 1분기에 추가 배당합니다. 예상 기준 1구좌 연 약 2,520만원으로, 1차는 고정 배당과 합쳐 연 약 6,300만원(투자금 대비 약 30% 수익률)입니다.</p></details>
 <details class="qa"><summary>오픈이 늦어지면요?</summary><p>배당은 오픈 2개월차부터라, 오픈이 늦어지면 배당 시작도 그만큼 늦어집니다.</p></details>
 <h3 class="qa-group">사업과 운영</h3>
-<details class="qa"><summary>투자금은 어디에 쓰이나요?</summary><p>임차보증금 3.5억원과 공사비 16.5억원, 모두 이 호텔에 쓰입니다.</p></details>
+<details class="qa"><summary>투자금은 어디에 쓰이나요?</summary><p>임차보증금 3.5억원과 공사비 17.5억원, 모두 이 호텔에 쓰입니다.</p></details>
 <details class="qa"><summary>객실은 몇 실인가요?</summary><p>36실 예정입니다(6개 층 × 6실, 객실당 20㎡ 이상). 1개 층은 공용 라운지로 씁니다. 설계 · 인허가 과정에서 객실 수는 달라질 수 있습니다.</p></details>
 <details class="qa"><summary>누가 운영하나요?</summary><p>먼슬리브를 운영하는 고수플러스가 위탁 운영합니다. 운영 수수료는 매출의 15%입니다.</p></details>
-<details class="qa"><summary>예상 수익은 어떻게 계산했나요?</summary><p>먼슬리브 4개 지점 실적(OTA 수수료를 뺀 정산 매출)을 평당으로 환산해 연 매출 약 19.7억원으로 잡았습니다. 가동률은 연중 80%(성수기 90%)입니다. 비용은 운영 수수료 15%, 임대료 월 3,990만원, 운영비 월 약 5,000만원(공과금 · 렌탈 · 소모품 · 청소 등, 매출의 약 30%)입니다.</p></details>
+<details class="qa"><summary>예상 수익은 어떻게 계산했나요?</summary><p>먼슬리브 4개 지점 실적(OTA 수수료를 뺀 정산 매출)을 평당으로 환산해 연 매출 약 19.7억원으로 잡았습니다. 가동률은 연중 80%(성수기 90%)입니다. 비용은 운영 수수료 15%, 임대료 월 3,990만원, 운영비 월 약 4,740만원(공과금 · 렌탈 · 소모품 · 청소 등, 매출의 약 29%)입니다.</p></details>
 <details class="qa"><summary>운영 현황은 어떻게 알 수 있나요?</summary><p>OTA에서 결제 · 판매되는 현황을 실시간으로 볼 수 있습니다. 매년 초에는 지난해 실적을 보고드립니다.</p></details>
 <details class="qa"><summary>임대차 계약은 몇 년인가요?</summary><p>5년 계약에 렌트프리 3개월입니다.</p></details>
 <h3 class="qa-group">세금과 회수</h3>
 <details class="qa"><summary>어떤 형태로 참여하나요?</summary><p>프로젝트 법인(SPC) 먼슬리브 역삼 호텔스테이의 주주가 됩니다.</p></details>
 <details class="qa"><summary>매월 배당에도 세금이 있나요?</summary><p>감액배당이라 소액주주는 배당 세금이 없습니다. 엑시트 때 양도차익의 11%만 냅니다.</p></details>
-<details class="qa"><summary>소득공제는 얼마나 되나요?</summary><p>1구좌 기준 8,900만원을 종합소득에서 뺍니다. 투자한 해, 2년차, 3년차 중 한 해를 골라 받을 수 있고, 그해 종합소득금액의 최대 50%까지 공제됩니다. 3년 이상 보유가 조건입니다.</p></details>
-<details class="qa"><summary>엑시트는 언제, 얼마로 보나요?</summary><p>예상 시나리오는 2031년 5월 엑시트입니다. 보증금 3.5억원과 시설권리금 16.5억원을 합쳐 20억원으로 봅니다.</p></details>
-<details class="qa"><summary>원금은 어떻게 돌려받나요?</summary><p>엑시트 때 1구좌 2억원을 받습니다. 이 중 시설권리금 몫은 많아질 수도, 적어질 수도 있습니다. 세금 11%를 빼도 1억 7,800만원입니다.</p></details>
+<details class="qa"><summary>소득공제는 얼마나 되나요?</summary><p>1구좌 기준 9,200만원을 종합소득에서 뺍니다. 투자한 해, 2년차, 3년차 중 한 해를 골라 받을 수 있고, 그해 종합소득금액의 최대 50%까지 공제됩니다. 3년 이상 보유가 조건입니다.</p></details>
+<details class="qa"><summary>엑시트는 언제, 얼마로 보나요?</summary><p>예상 시나리오는 2031년 5월 엑시트입니다. 보증금 3.5억원과 시설권리금 17.5억원을 합쳐 21억원으로 봅니다.</p></details>
+<details class="qa"><summary>원금은 어떻게 돌려받나요?</summary><p>엑시트 때 1구좌 2.1억원을 받습니다. 이 중 시설권리금 몫은 많아질 수도, 적어질 수도 있습니다. 세금 11%를 빼도 1억 8,690만원입니다.</p></details>
 <details class="qa"><summary>중간에 지분을 넘길 수 있나요?</summary><p>언제든 가능합니다. 지분을 넘기는 3자 간 거래로 진행합니다.</p></details>
 <h3 class="qa-group">참여와 계약</h3>
 <details class="qa"><summary>법인도 참여할 수 있나요?</summary><p>네, 법인으로도 투자할 수 있습니다. 배당 비과세와 소득공제는 개인 투자자 기준입니다.</p></details>
@@ -724,7 +724,7 @@ footer p + p { margin-top: 6px; }
           <form id="apply-form" novalidate>
             <label for="apply-name">이름<input type="text" id="apply-name" name="name" autocomplete="name" placeholder="홍길동" required></label>
             <label for="apply-phone">연락처<input type="tel" id="apply-phone" name="phone" autocomplete="tel" inputmode="tel" placeholder="010-0000-0000" required></label>
-            <label for="apply-units">희망 구좌<select id="apply-units" name="units"><option value="">선택 안 함</option><option>1구좌 (2억원)</option><option>2구좌 이상</option><option>상담 후 결정</option></select></label>
+            <label for="apply-units">희망 구좌<select id="apply-units" name="units"><option value="">선택 안 함</option><option>1구좌 (2.1억원)</option><option>2구좌 이상</option><option>상담 후 결정</option></select></label>
             <label for="apply-memo">궁금한 점 (선택)<textarea id="apply-memo" name="memo" placeholder="예: 배당 지급일, 소득공제 서류"></textarea></label>
             <label class="consent" for="apply-consent"><input type="checkbox" id="apply-consent" name="consent"><span>상담 연락을 위해 이름과 연락처를 고수플러스에 보내는 데 동의합니다. 이 페이지에는 저장되지 않습니다.</span></label>
             <p class="err" id="apply-error" hidden></p>
